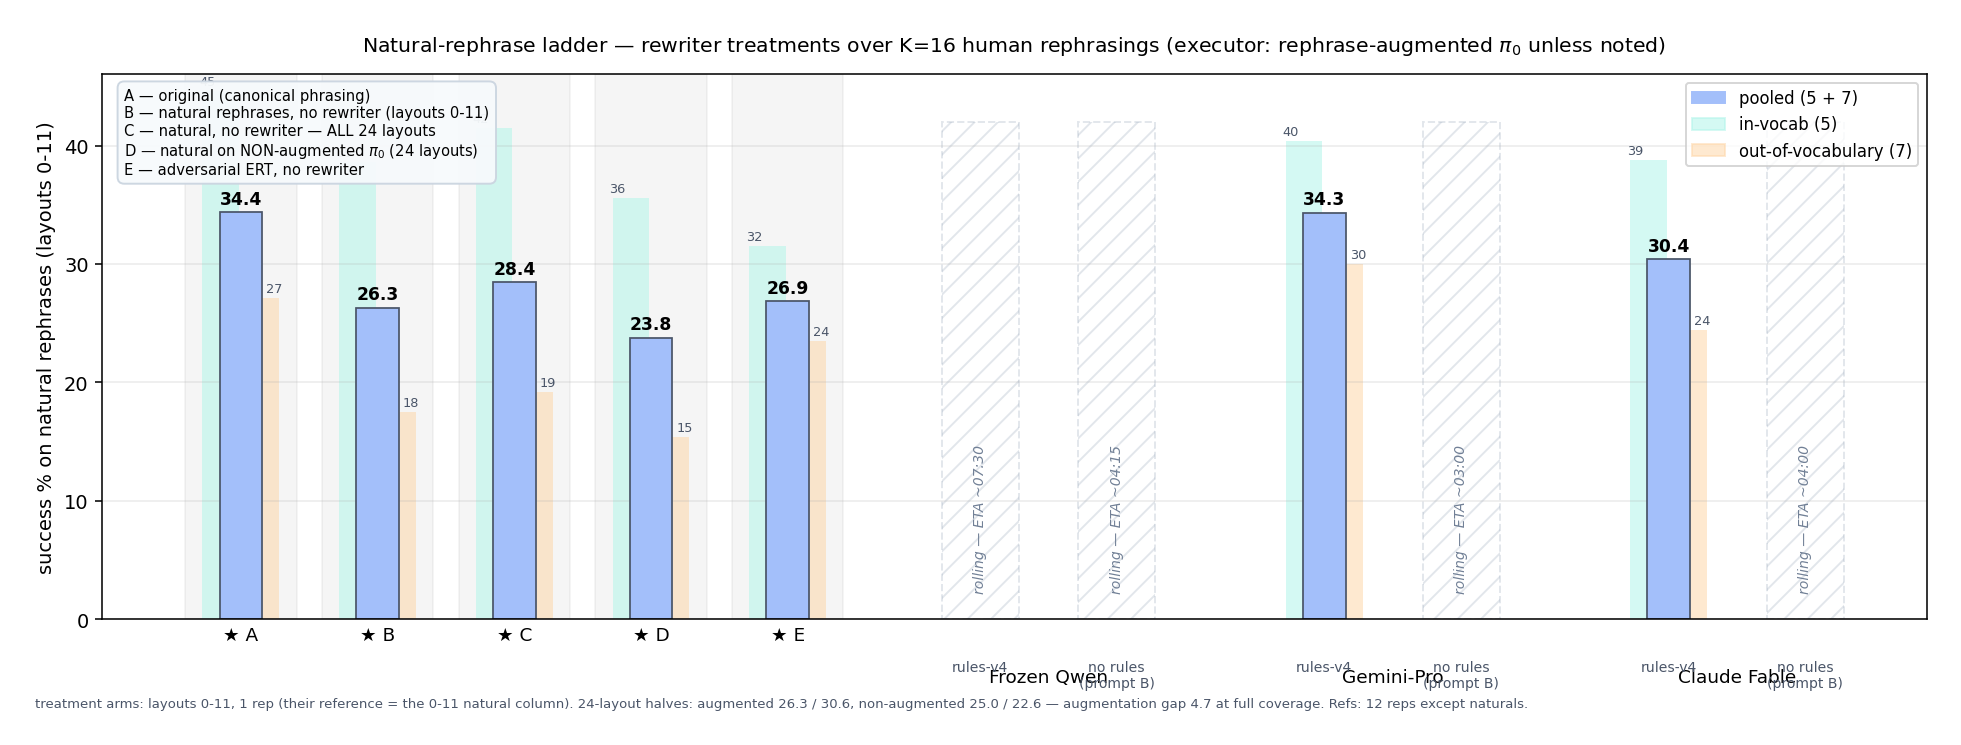
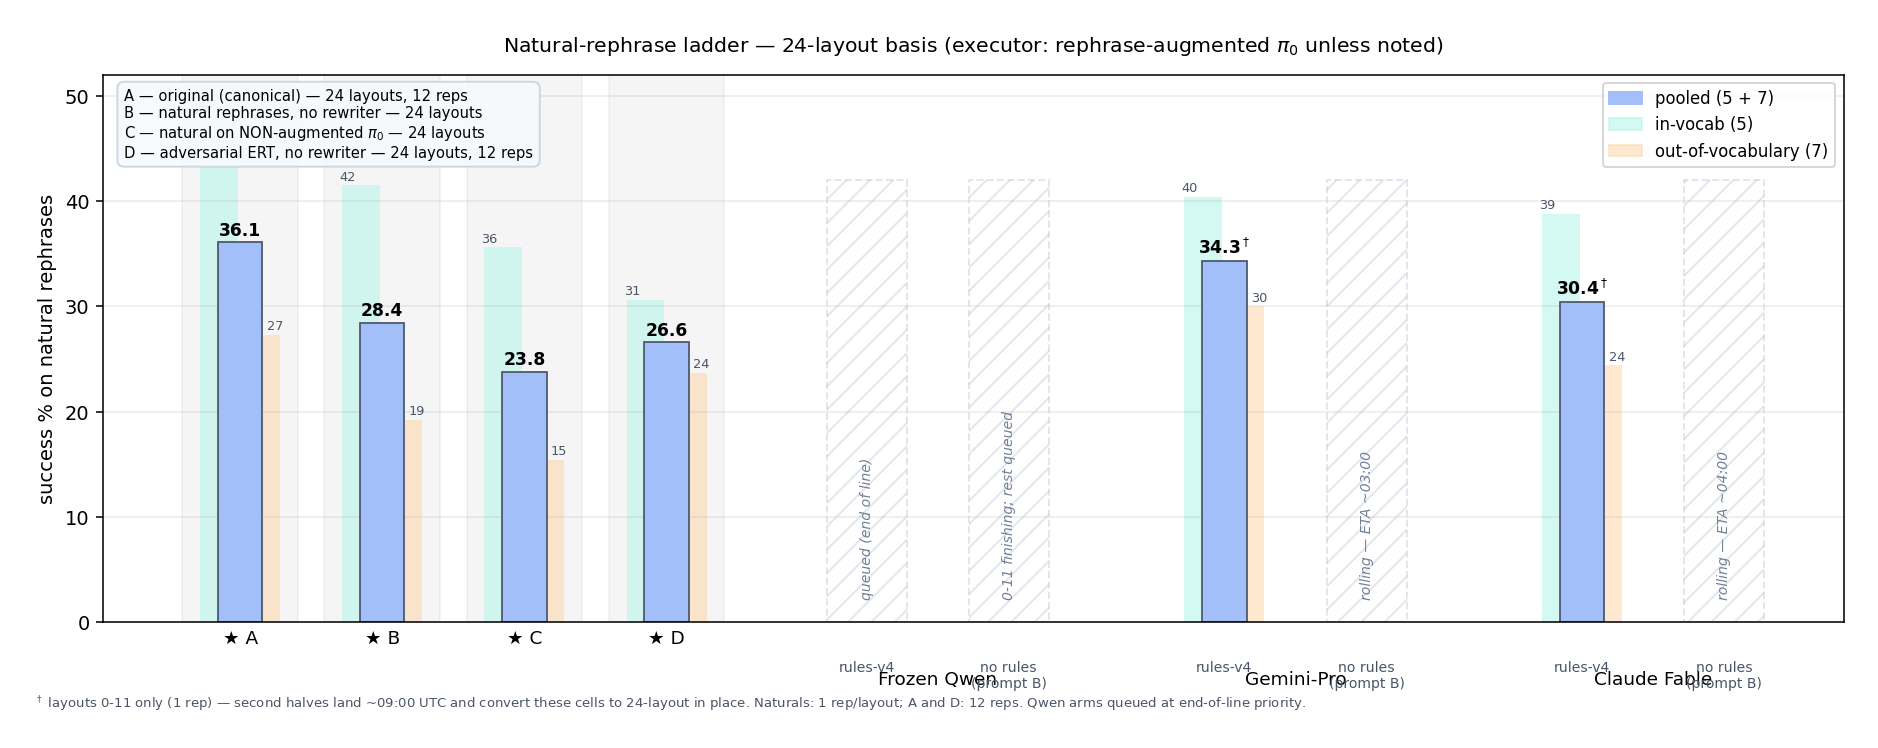
natural ladder: 24-layout basis, dagger for 0-11 partials, Qwen reinstated end-of-queue

diff --git a/scripts/make_natural_ladder.py b/scripts/make_natural_ladder.py
@@ -1,9 +1,8 @@
 #!/usr/bin/env python3
-"""Natural-rephrase ladder: rewriter treatments over the K=16 natural human
-rephrases (layouts 0-11, executor = rephrase-augmented pi0), pooled-forward
-style. Pending arms (rolling tonight) shown as hatched placeholders with ETAs.
-Refs layout-matched from raw parquets; natural refs = the rephrases passed
-through unmodified."""
+"""Natural-rephrase ladder, 24-LAYOUT BASIS (2026-08-06 conversion).
+References use full 24-layout data. Dagger-marked treatment cells are layouts
+0-11 only until their second halves land; they convert in place. Qwen arms
+reinstated at END-OF-QUEUE priority (user). Pooled-forward triplet style."""
 import matplotlib
 
 matplotlib.use("Agg")
@@ -11,41 +10,42 @@ import matplotlib.pyplot as plt
 
 C_POOL, C_IV, C_OOV = "#a3bffa", "#b2f5ea", "#fed7aa"
 
-REFS = [("A", "original (canonical phrasing)", (34.38, 44.6, 27.1)),
-        ("B", "natural rephrases, no rewriter (layouts 0-11)", (26.30, 38.6, 17.5)),
-        ("C", "natural, no rewriter — ALL 24 layouts", (28.45, 41.5, 19.2)),
-        ("D", "natural on NON-augmented $\\pi_0$ (24 layouts)", (23.78, 35.6, 15.4)),
-        ("E", "adversarial ERT, no rewriter", (26.85, 31.5, 23.5))]
+# (letter, description, (pooled, IV, OOV)) — ALL 24 layouts
+REFS = [("A", "original (canonical) — 24 layouts, 12 reps", (36.08, 48.3, 27.3)),
+        ("B", "natural rephrases, no rewriter — 24 layouts", (28.45, 41.5, 19.2)),
+        ("C", "natural on NON-augmented $\\pi_0$ — 24 layouts", (23.78, 35.6, 15.4)),
+        ("D", "adversarial ERT, no rewriter — 24 layouts, 12 reps", (26.59, 30.6, 23.7))]
 
 ROLES = ["rules-v4", "no rules (prompt B)"]
+# cell = (pooled, IV, OOV, is_partial_0_11) or None (pending)
 MODELS = {
     "Frozen Qwen":  [None, None],
-    "Gemini-Pro":   [(34.33, 40.4, 30.0), None],
-    "Claude Fable": [(30.43, 38.8, 24.4), None],
+    "Gemini-Pro":   [(34.33, 40.4, 30.0, True), None],
+    "Claude Fable": [(30.43, 38.8, 24.4, True), None],
 }
 PENDING = {
-    ("Frozen Qwen", 0): "rolling — ETA ~07:30",
-    ("Frozen Qwen", 1): "rolling — ETA ~04:15",
+    ("Frozen Qwen", 0): "queued (end of line)",
+    ("Frozen Qwen", 1): "0-11 finishing; rest queued",
     ("Gemini-Pro", 1): "rolling — ETA ~03:00",
     ("Claude Fable", 1): "rolling — ETA ~04:00",
 }
 
 
-def triplet_bars(ax, x, vals):
-    pool, iv, oov = vals
+def triplet_bars(ax, x, pool, iv, oov, dagger=False):
     ax.bar(x - 0.20, iv, 0.36, color=C_IV, alpha=0.55, zorder=1, edgecolor="none")
     ax.bar(x + 0.20, oov, 0.36, color=C_OOV, alpha=0.55, zorder=1, edgecolor="none")
     ax.text(x - 0.33, iv + 0.5, f"{iv:.0f}", ha="center", fontsize=6.6, color="#4a5568", zorder=3)
     ax.text(x + 0.33, oov + 0.5, f"{oov:.0f}", ha="center", fontsize=6.6, color="#4a5568", zorder=3)
     ax.bar(x, pool, 0.42, color=C_POOL, zorder=2, edgecolor="#4a5568", lw=0.9)
-    ax.text(x, pool + 0.7, f"{pool:.1f}", ha="center", fontsize=8.8, fontweight="bold", zorder=3)
+    lbl = f"{pool:.1f}" + ("$^\\dagger$" if dagger else "")
+    ax.text(x, pool + 0.7, lbl, ha="center", fontsize=8.8, fontweight="bold", zorder=3)
 
 
-fig, ax = plt.subplots(figsize=(13.8, 5.0))
+fig, ax = plt.subplots(figsize=(13.2, 5.0))
 x = 0.0
 ticks, labels = [], []
-for letter, _desc, vals in REFS:
-    triplet_bars(ax, x, vals)
+for letter, _d, (p, iv, oo) in REFS:
+    triplet_bars(ax, x, p, iv, oo)
     ax.axvspan(x - 0.55, x + 0.55, color="#000000", alpha=0.04, zorder=0)
     ticks.append(x)
     labels.append("★ " + letter)
@@ -63,8 +63,9 @@ for model, cells in MODELS.items():
             ax.text(x, 2.2, PENDING[(model, i)], ha="center", va="bottom", fontsize=7.2,
                     color="#718096", style="italic", rotation=90)
         else:
-            triplet_bars(ax, x, cell)
-        ax.text(x, -3.4, ROLES[i].replace(" (", "\n("), ha="center", va="top",
+            p, iv, oo, part = cell
+            triplet_bars(ax, x, p, iv, oo, dagger=part)
+        ax.text(x, -3.6, ROLES[i].replace(" (", "\n("), ha="center", va="top",
                 fontsize=7.2, color="#4a5568")
         cxs.append(x)
         x += 1.35
@@ -79,14 +80,14 @@ ax.legend(handles, ["pooled (5 + 7)", "in-vocab (5)", "out-of-vocabulary (7)"],
 ax.set_xticks(ticks)
 ax.set_xticklabels(labels, fontsize=9.5)
 ax.tick_params(axis="x", length=0)
-ax.set_ylabel("success % on natural rephrases (layouts 0-11)")
-ax.set_ylim(0, 46)
+ax.set_ylabel("success % on natural rephrases")
+ax.set_ylim(0, 52)
 ax.grid(axis="y", alpha=0.25)
-ax.set_title("Natural-rephrase ladder — rewriter treatments over K=16 human rephrasings "
+ax.set_title("Natural-rephrase ladder — 24-layout basis "
              "(executor: rephrase-augmented $\\pi_0$ unless noted)", fontsize=10.5, pad=12)
 fig.text(0.01, 0.005,
-         "treatment arms: layouts 0-11, 1 rep (their reference = the 0-11 natural column). 24-layout halves: "
-         "augmented 26.3 / 30.6, non-augmented 25.0 / 22.6 — augmentation gap 4.7 at full coverage. Refs: 12 reps except naturals.",
+         "$^\\dagger$ layouts 0-11 only (1 rep) — second halves land ~09:00 UTC and convert these cells to 24-layout in place. "
+         "Naturals: 1 rep/layout; A and D: 12 reps. Qwen arms queued at end-of-line priority.",
          fontsize=6.8, color="#4a5568")
 fig.tight_layout()
 fig.savefig("results/charts/natural_ladder.png", dpi=140, bbox_inches="tight", pad_inches=0.25)
